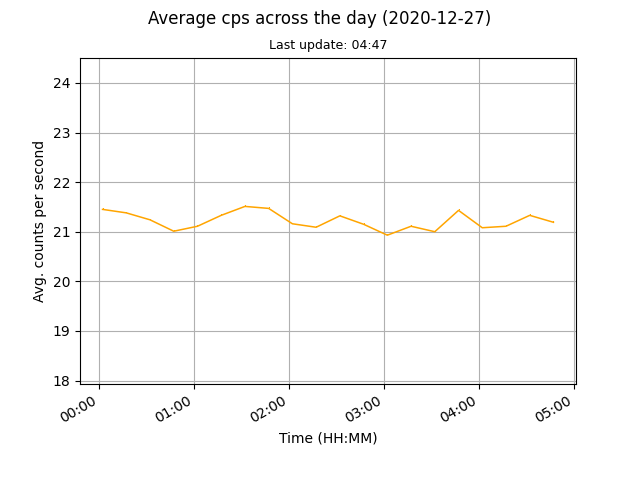
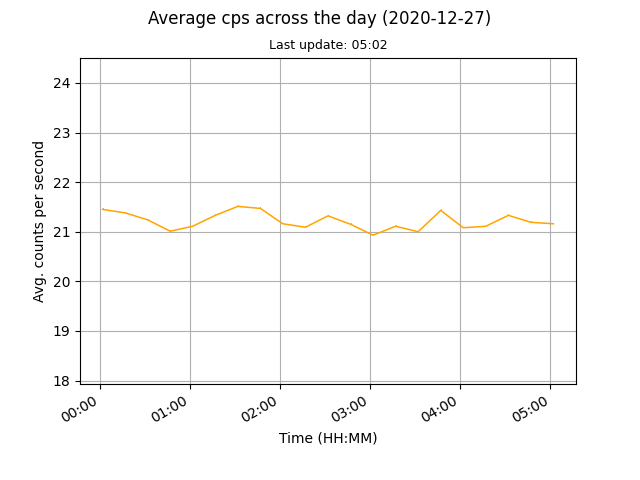
auto data update

diff --git a/docs/index.html b/docs/index.html
@@ -45,8 +45,8 @@
 	
 	<br>
 	
-	<p>Current counts per second (cps): 21.19</p>
-	<p>Last update: 2020-12-27, 04:47</p>
+	<p>Current counts per second (cps): 21.16</p>
+	<p>Last update: 2020-12-27, 05:03</p>
 
 	<p><a href="images/monthly.png"><img src="images/monthly.png" alt="Mothly avg cps data"></a><a href="images/daily.png"><img src="images/daily.png" alt="Daily avg cps data"></a></p>
 	
